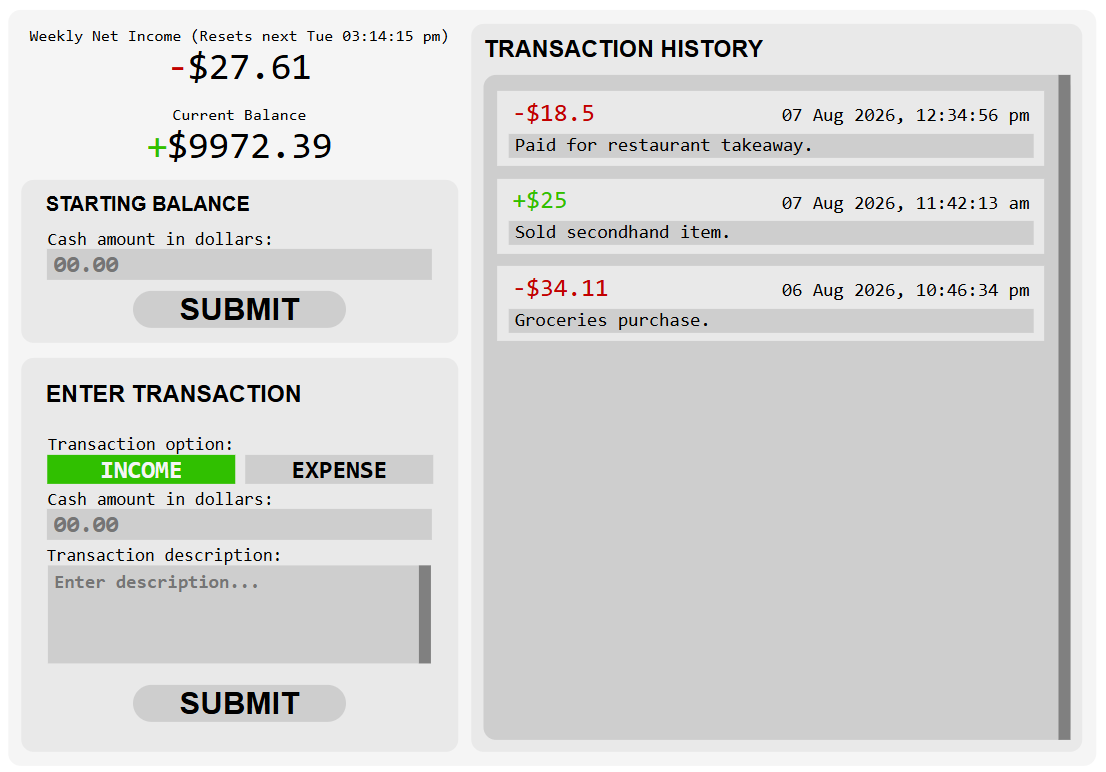
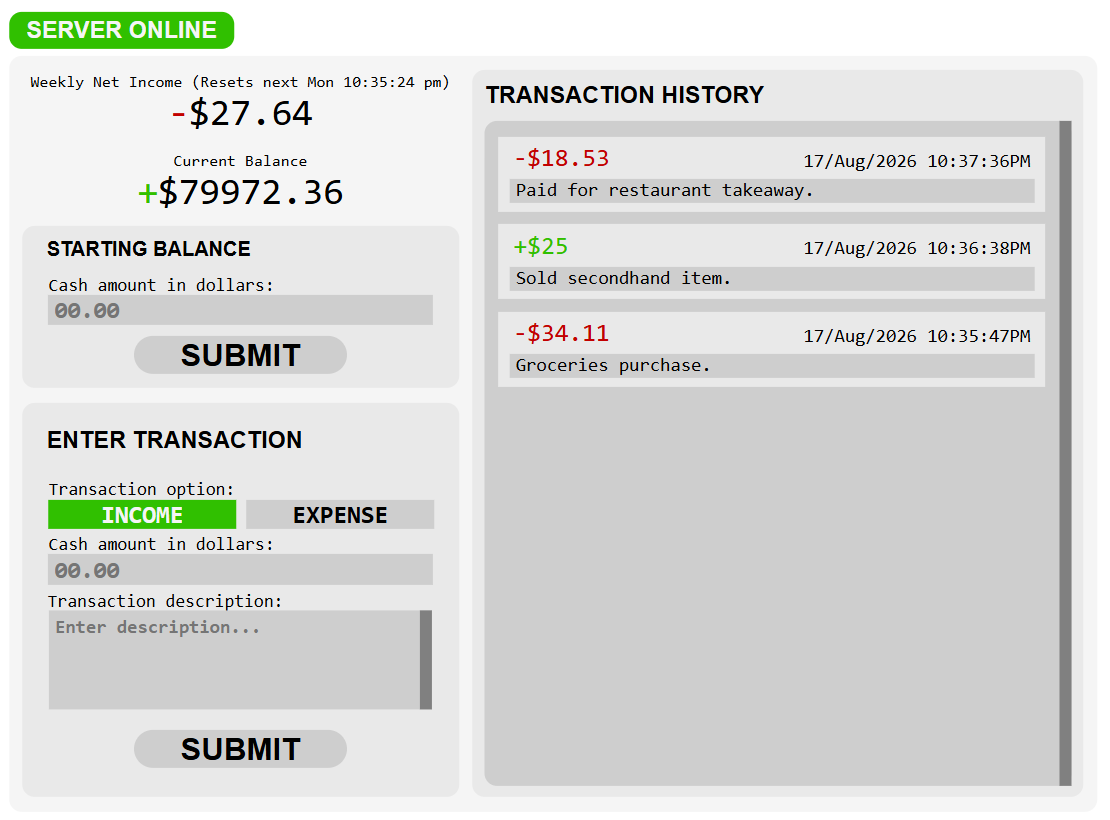
Update images in README.md
Remove startup image and update example image.

diff --git a/README.md b/README.md
@@ -76,10 +76,6 @@ npm run preview
 
 ## Usage
 
-The following image illustrates the app UI on startup. (Instructions on usage will be reliant on this image.)  
-
-![Initial page on startup.](assets/images/startup_empty.png "Initial page on startup.")
-
 1. Navigate to http://localhost:4173 using a web browser (e.g. Google Chrome, Edge, Firefox) to display the UI.
 2. Enter starting balance using the **STARTING BALANCE** widget when using the app for the first time. This amount will be displayed under *Current Balance* as shown in the image above. 
 3. Use the **ENTER TRANSACTION** widget to manually record any income and expenses. Net income and current balance is updated every time new transactions are added. Previous transactions and their details are displayed in **TRANSACTION HISTORY**.
